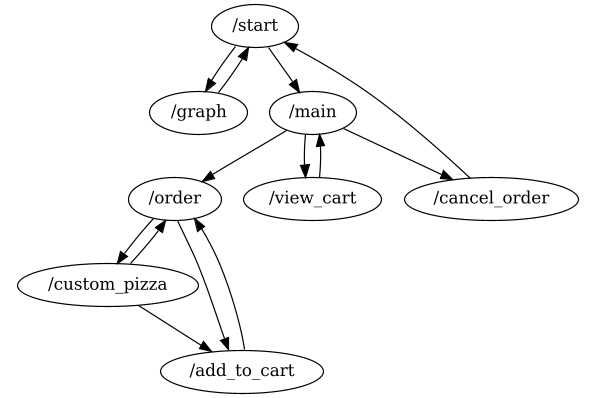
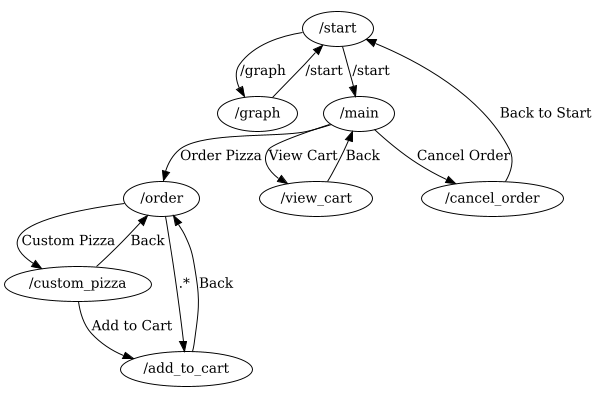
- Displaying transitions as labels on edges in the graph.

diff --git a/pysyun/conversation/flow/dialog_state_machine.py b/pysyun/conversation/flow/dialog_state_machine.py
@@ -62,7 +62,9 @@ class DialogStateMachine:
     def to_graphviz(self):
         g = Digraph('G')
         for node in self.graph:
-            g.edge(str(node.identifier), str(node.to_state))
+            label = node.regex if node.regex and node.regex is not "8---" else node.example
+            g.edge(str(node.identifier), str(node.to_state), label=label)
+
         return g.source
 
 

diff --git a/setup.py b/setup.py
@@ -2,7 +2,7 @@ from setuptools import setup
 
 setup(
     name='pysyun_conversation_flow',
-    version='1.5',
+    version='1.6',
     description='Syun\'s Python SDK for conversation flow control.',
     author='Py Syun',
     author_email='pysyun@vitche.com',
